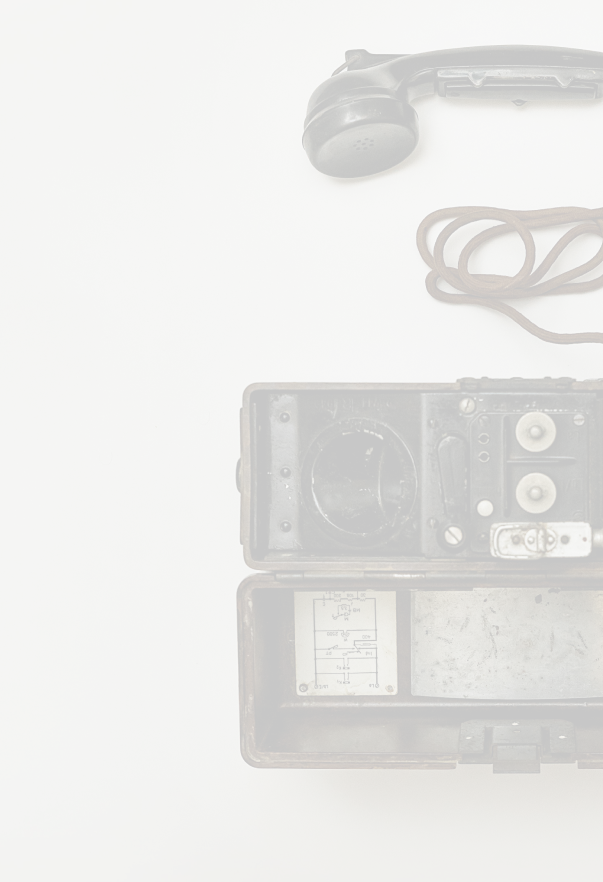
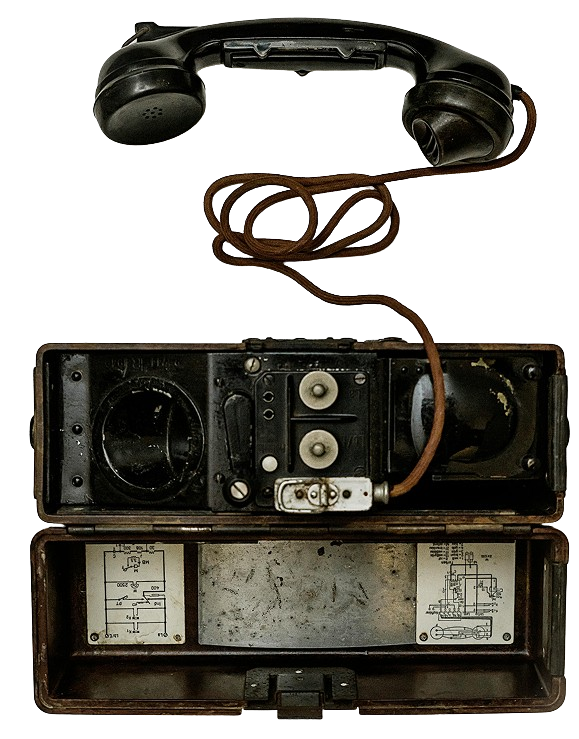
fix bg images

diff --git a/src/app/kontakt/page.tsx b/src/app/kontakt/page.tsx
@@ -5,22 +5,33 @@ import { Breadcrumbs } from "@/components/shared/Breadcrumbs/Breadcrumbs";
 import { TaxCard } from "@/components/shared/TaxCard/TaxCard";
 import ContactInfo from "./components/ContactInfo";
 import LegalInfo from "./components/LegalInfo";
-
+import BackgroundImage from "./components/BackgroundImage"
 
 export default function ContactPage() {
   return (
-    <div className="relative min-h-screen">
-      <div className="hidden desktop:block absolute right-0 top-1/2 -translate-y-1/2">
-        <Image
-          src="/images/contact-bg-desktop.png"
-          alt="Obrazek przedstawiający retro telefon"
-          width={595}
-          height={739}
-          className="object-contain items-center w-full h-full"
+    <div className="relative min-h-screen isolate overflow-hidden">
+      {/* Desktop */}
+      <div className="hidden desktop:block absolute inset-y-0 right-0 w-[40vw] h-full">
+        <BackgroundImage
+          className=""
+          sizes="(max-width: 1280px) 40vw, 595px"
+          quality={85}
         />
       </div>
-      <div className="absolute min-h-screen hidden tablet:block inset-0 bg-no-repeat bg-contain bg-right tablet:bg-[url('/images/contact-bg.png')] desktop:hidden"></div>
-      <div className="absolute inset-0 bg-backgroundB/50 desktop:bg-backgroundB/10"></div>
+
+      {/* Tablet */}
+      <div className="hidden desktop:hidden tablet:flex absolute inset-0 justify-end pointer-events-none">
+        <div className="relative h-full overflow-hidden w-[80vw]">
+          <BackgroundImage
+            sizes="80vw"
+
+            className="object-cover object-left h-full translate-x-[40%]"
+            quality={70}
+          />
+        </div>
+      </div>
+
+      <div className="absolute inset-0  bg-backgroundB/50 tablet:bg-backgroundB/70"></div>
 
 
       <Container className="relative z-10 desktop:max-w-[85%]">
@@ -51,7 +62,7 @@ export default function ContactPage() {
             Światowy Związek Żołnierzy Armii Krajowej <br></br>
             Środowisko 5. Pułku Strzelców Konnych Armii Krajowej w Dębicy
           </Heading>
-          <p id="organization-info" className="mb-6 font-semibold tablet:hidden desktop:blockh">
+          <p id="organization-info" className="mb-6 font-semibold tablet:hidden desktop:block">
             Światowy Związek Żołnierzy Armii Krajowej – Środowisko 5. Pułku Strzelców Konnych Armii Krajowej w Dębicy
           </p>
         </section>

diff --git a/src/app/kontakt/components/BackgroundImage.tsx b/src/app/kontakt/components/BackgroundImage.tsx
@@ -1,0 +1,22 @@
+import Image from "next/image";
+
+interface BackgroundImageProps {
+    className?: string;
+    sizes?: string;
+    quality?: number;
+}
+
+export default function BackgroundImage({ className, sizes, quality }: BackgroundImageProps) {
+    return (
+        <div className={className}>
+            <Image
+                src="/images/contact-bg.png"
+                alt="Obrazek przedstawiający retro telefon"
+                fill
+                sizes={sizes}
+                className="object-contain object-right"
+                quality={quality}
+            />
+        </div>
+    );
+}
